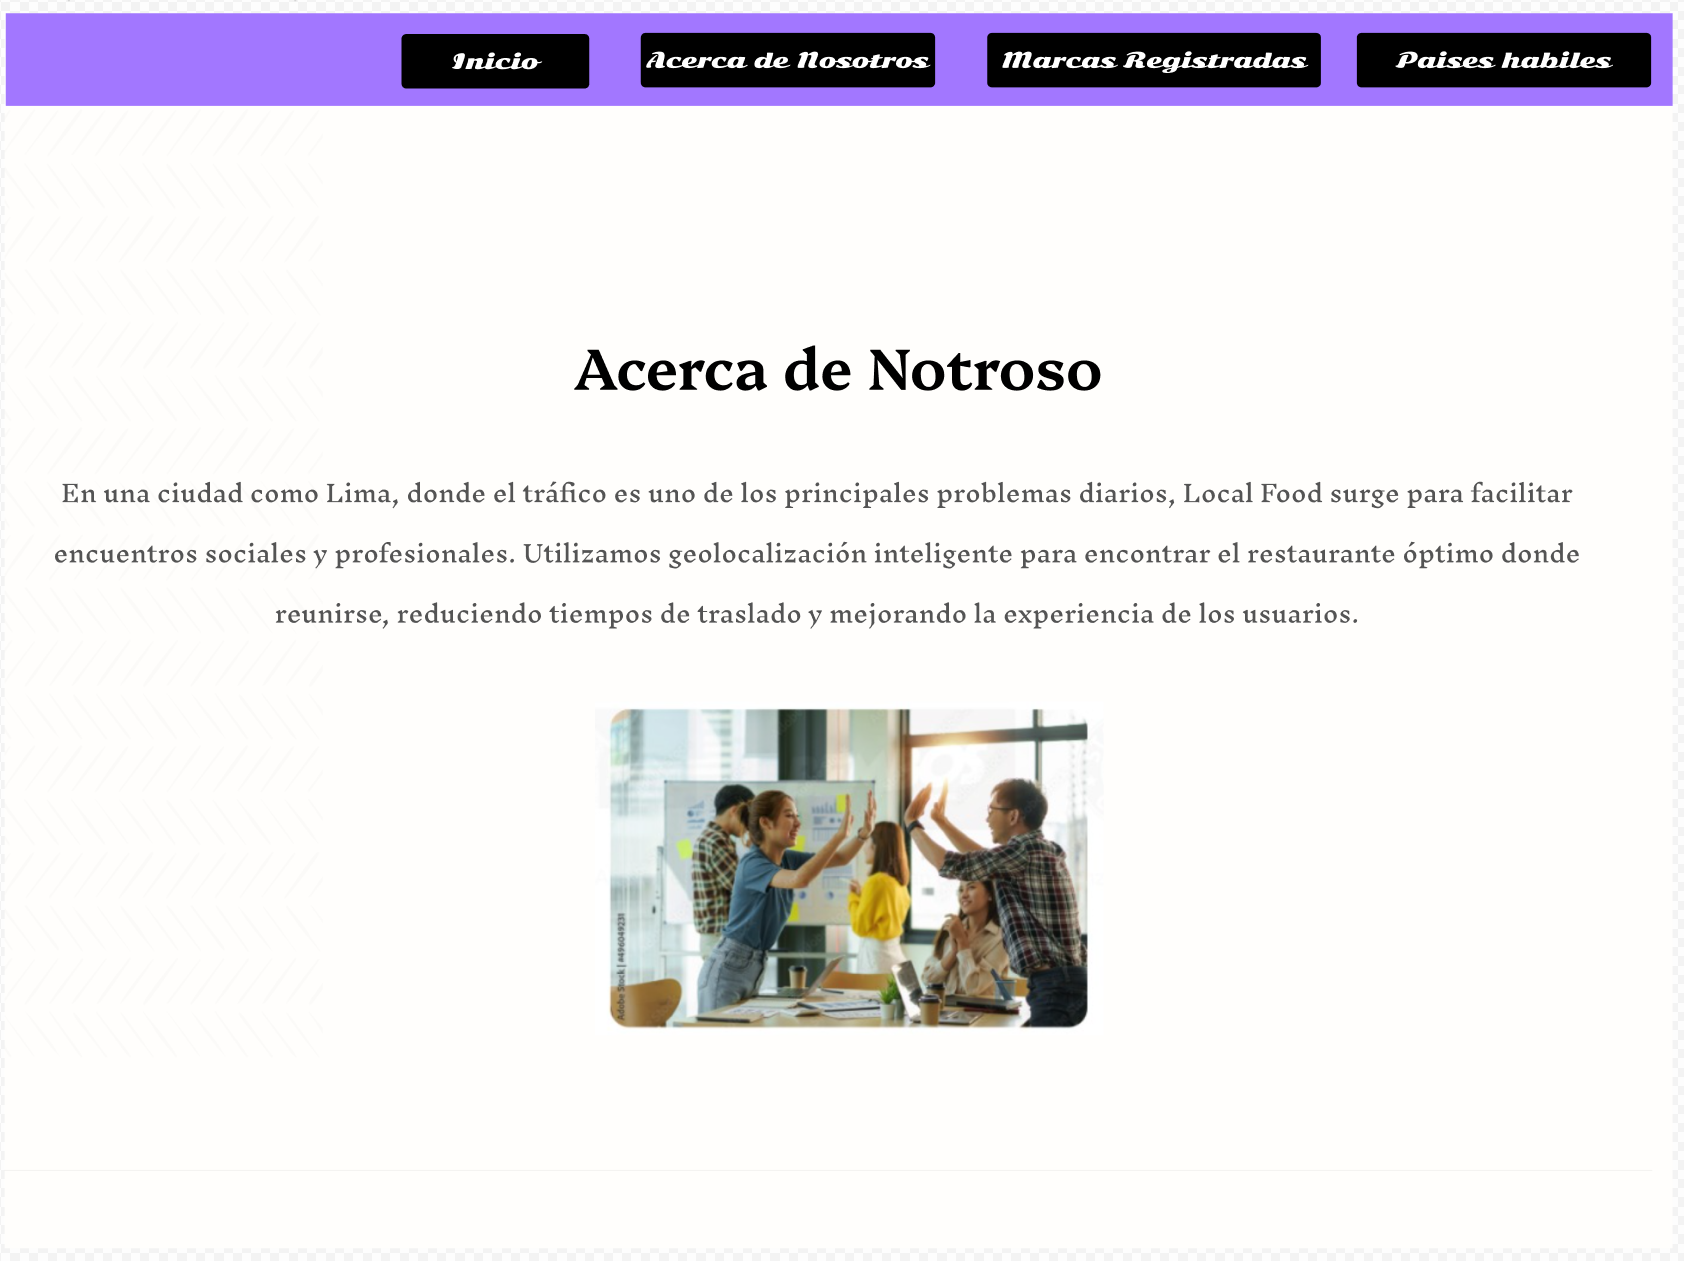
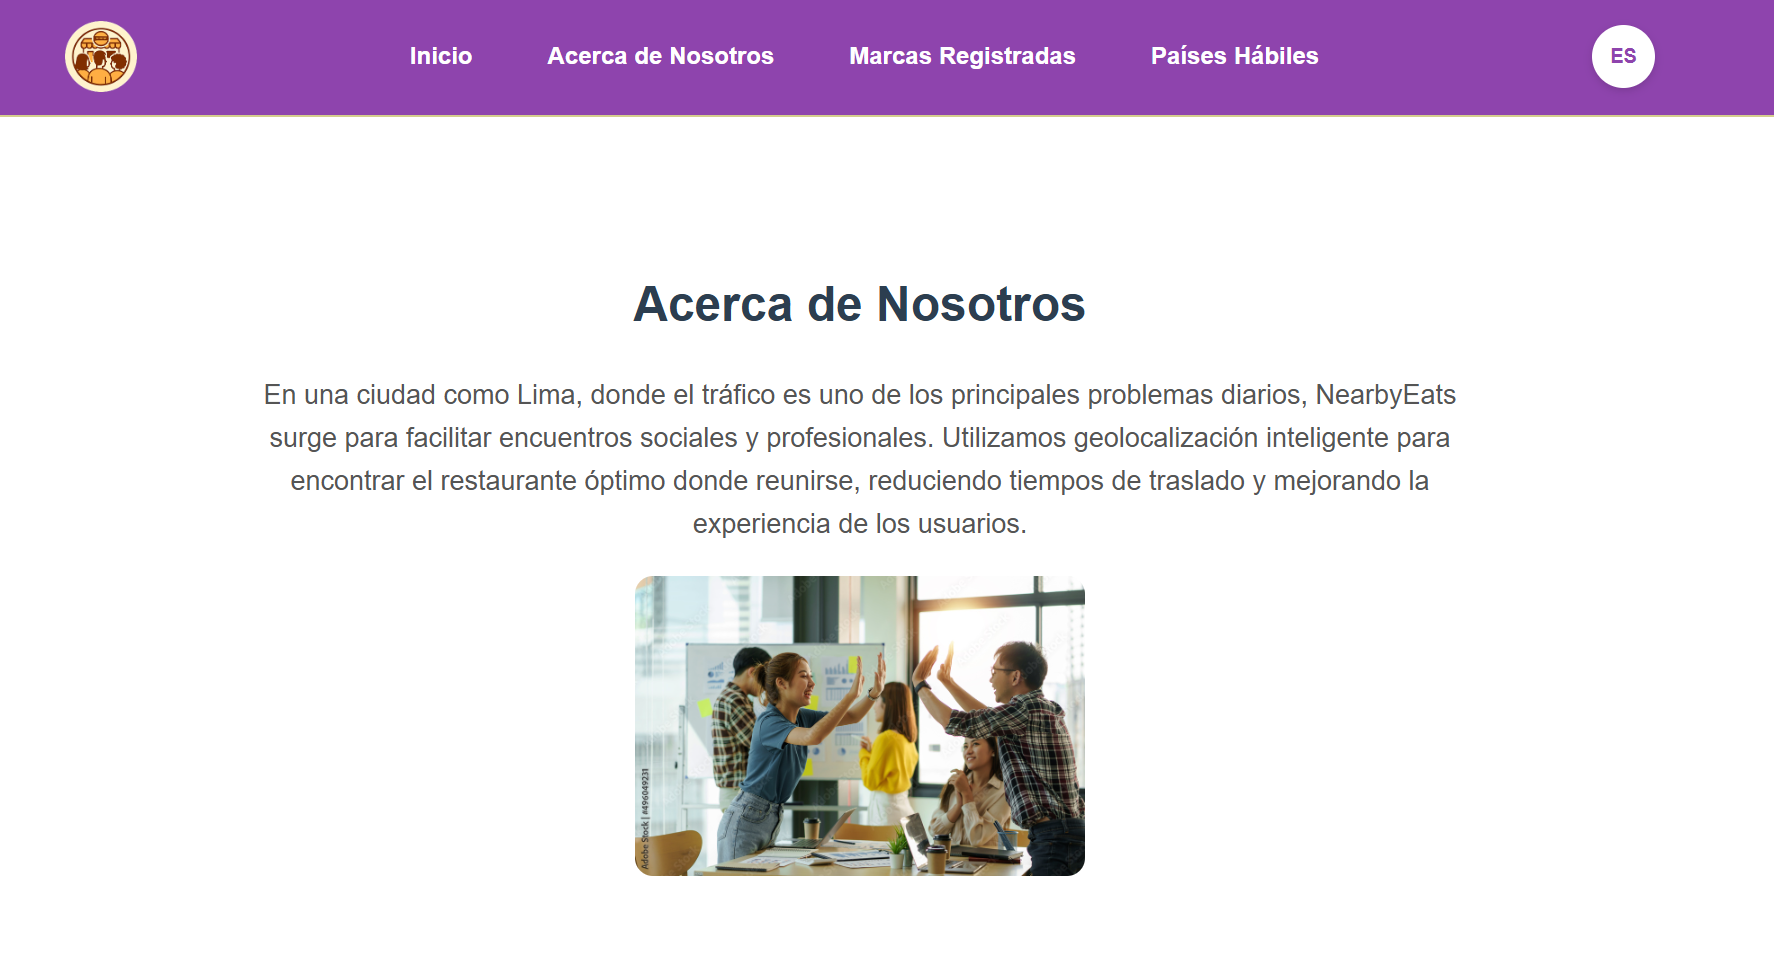
Doc: size and spelling correction

Changed region(s): [[0.0309, 0.3723, 0.9264, 0.9307], [0.0, 0.0, 1.0, 0.1241], [0.3397, 0.2792, 0.6485, 0.3413]]

diff --git a/report/chapter-3/chapter-3.md b/report/chapter-3/chapter-3.md
@@ -266,22 +266,13 @@ Permite a nuevos usuarios crear una cuenta para la aplicacion, y a usuarios exis
 
 <p align="center">
 
-![Wireframe1.png](../../assets/chapter-3/Wireframe/Wframe1.png)
+![Wireframe1.png](../../assets/chapter-3/Wireframe/Wframe1and2.png)
 </p>
 
 <p align="center">
-    Wireframe Sing In - Elaboración propia
+    Wireframe Sing In & User Register - Elaboración propia
 </p>
 
-
-<p align="center">
-
- ![Wireframe1.png](../../assets/chapter-3/Wireframe/Wframe2.png)
-</p>
-
-<p align="center">
-    Wireframe User Register - Elaboración propia
-</p>
 
 + **Pagina de inicio del usuario**:
 
@@ -289,21 +280,13 @@ Muestra el perfil del usuario, su codigo QR, y restaurante, el frecuente y el ul
 
 <p align="center">
 
-  ![Wireframe1.png](../../assets/chapter-3/Wireframe/Wframe3.png)
+  ![Wireframe1.png](../../assets/chapter-3/Wireframe/WframeInicio.png)
 </p>
 
 <p align="center">
-    Wireframe User Homepage - Elaboración propia
+    Wireframe User Homepage & User Menu - Elaboración propia
 </p>
 
-<p align="center">
-
-  ![Wireframe1.png](../../assets/chapter-3/Wireframe/Wframe4.png)
-</p>
-
-<p align="center">
-    Wireframe User Menu - Elaboración propia
-</p>
 
 + **Mis Contactos**:
 
@@ -311,29 +294,11 @@ Apartado que permite agregar, ver y seleccionar contactos para el calculo respec
 
 <p align="center">
 
-  ![Wireframe1.png](../../assets/chapter-3/Wireframe/Wframe5.png)
+  ![Wireframe1.png](../../assets/chapter-3/Wireframe/WframeContact.png)
 </p>
 
 <p align="center">
-    Wireframe User Add Contact - Elaboración propia
-</p>
-
-<p align="center">
-
-  ![Wireframe1.png](../../assets/chapter-3/Wireframe/Wframe6.png)
-</p>
-
-<p align="center">
-    Wireframe User Contactpage - Elaboración propia
-</p>
-
-<p align="center">
-  
-  ![Wireframe1.png](../../assets/chapter-3/Wireframe/Wframe7.png)
-</p>
-
-<p align="center">
-    Wireframe User selection Contact - Elaboración propia
+    Wireframe User Add Contact, User Contactpage & User selection Contact,  - Elaboración propia
 </p>
 
 
@@ -343,52 +308,27 @@ Muestras los restaurantes disponibles de la aplicacion al usuario y permite su s
 
 <p align="center">
 
-  ![Wireframe1.png](../../assets/chapter-3/Wireframe/Wframe8.png)
+  ![Wireframe1.png](../../assets/chapter-3/Wireframe/WframeRestaurant.png)
 </p>
 
 <p align="center">
-    Wireframe User Restaurantpage - Elaboración propia
+    Wireframe User Restaurantpage, User selection Restaurant - Elaboración propia
 </p>
 
 <p align="center">
 
-![Wireframe1.png](../../assets/chapter-3/Wireframe/Wframe9.png)
-</p>
 
-<p align="center">
-    Wireframe User selection Restaurant - Elaboración propia
-</p>
-
-+ **Realizar Calculo**:
++ **Realizar Cálculo**:
 
 Formula el calculo respecto al restaurante mas cercano en proporcion a la hubicacion de las personas del grupo.
 
 <p align="center">
 
-  <![Wireframe1.png](../../assets/chapter-3/Wireframe/Wframe10.png)
+  <![Wireframe1.png](../../assets/chapter-3/Wireframe/WframeCalculo.png)
 </p>
 
 <p align="center">
-
-  <![Wireframe1.png](../../assets/chapter-3/Wireframe/Wframe11.png)
-</p>
-
-<p align="center">
-    Wireframe User Calculationtpage - Elaboración propia
-</p>
-
-<p align="center">
-
-  <![Wireframe1.png](../../assets/chapter-3/Wireframe/Wframe10.png)
-</p>
-
-<p align="center">
-
-  <![Wireframe1.png](../../assets/chapter-3/Wireframe/Wframe12.png)
-</p>
-
-<p align="center">
-    Wireframe User Run Calculation - Elaboración propia
+    Wireframe User Calculationtpage & User Run Calculation - Elaboración propia
 </p>
 
 
@@ -401,7 +341,7 @@ https://miro.com/app/board/uXjVHTv6mYw=/
 
 **Wireflow 1: Login / Registrarse**
 
-**User Goal:** Como nuevo usuario, quiero ingresar o crear una cuenta, para acceder a la plataforma y ustilizar sus herramientas.
+**User Goal:** Como nuevo usuario, quiero ingresar o crear una cuenta, para acceder a la plataforma y utilizar sus herramientas.
 
 **User Persona:** Comensales
 
@@ -489,22 +429,13 @@ Permite a nuevos usuarios crear una cuenta para la aplicacion, y a usuarios exis
 
 <p align="center">
   
-   <![Mockup1.png](../../assets/chapter-3/Mockup/Mup1.png)
+   <![Mockup1.png](../../assets/chapter-3/Mockup/Mup1and2.png)
 </p>
 
 <p align="center">
-     Web Applications Mock-ups Login - Elaboración propia
+     Web Applications Mock-ups Login & User Register - Elaboración propia
 </p>
 
-
-<p align="center">
-  
-  <![Mockup1.png](../../assets/chapter-3/Mockup/Mup2.png)
-</p>
-
-<p align="center">
-    Web Applications Mock-ups User Register - Elaboración propia
-</p>
 
 + **Pagina de inicio del usuario**:
 
@@ -512,21 +443,13 @@ Muestra el perfil del usuario, su codigo QR, y restaurante, el frecuente y el ul
 
 <p align="center">
   
-  <![Mockup1.png](../../assets/chapter-3/Mockup/Mup3.png)
+  <![Mockup1.png](../../assets/chapter-3/Mockup/MupInicio.png)
 </p>
 
 <p align="center">
-    Web Applications Mock-ups User Homepage - Elaboración propia
+    Web Applications Mock-ups User Homepage & User Menu - Elaboración propia
 </p>
 
-<p align="center">
-  
-  <![Mockup1.png](../../assets/chapter-3/Mockup/Mup4.png)
-</p>
-
-<p align="center">
-    Web Applications Mock-ups User Menu - Elaboración propia
-</p>
 
 + **Mis Contactos**:
 
@@ -534,30 +457,13 @@ Apartado que permite agregar, ver y seleccionar contactos para el calculo respec
 
 <p align="center">
   
-   <![Mockup1.png](../../assets/chapter-3/Mockup/Mup5.png)
+   <![Mockup1.png](../../assets/chapter-3/Mockup/MupColegas.png)
 </p>
 
 <p align="center">
-    Web Applications Mock-ups User Add Contact - Elaboración propia
+    Web Applications Mock-ups User Add Contact, User Contactpage & User selection Contact - Elaboración propia
 </p>
 
-<p align="center">
-  
-   <![Mockup1.png](../../assets/chapter-3/Mockup/Mup6.png)
-</p>
-
-<p align="center">
-    Web Applications Mock-ups User Contactpage - Elaboración propia
-</p>
-
-<p align="center">
-
-   <![Mockup1.png](../../assets/chapter-3/Mockup/Mup7.png)
-</p>
-
-<p align="center">
-    Web Applications Mock-ups User selection Contact - Elaboración propia
-</p>
 
 
 + **Restaurantes disponibles**:
@@ -566,20 +472,11 @@ Muestras los restaurantes disponibles de la aplicacion al usuario y permite su s
 
 <p align="center">
   
-   <![Mockup1.png](../../assets/chapter-3/Mockup/Mup8.png)
+   <![Mockup1.png](../../assets/chapter-3/Mockup/MupRestaurant.png)
 </p>
 
 <p align="center">
-    Web Applications Mock-ups User Restaurantpage - Elaboración propia
-</p>
-
-<p align="center">
-  
-   <![Mockup1.png](../../assets/chapter-3/Mockup/Mup9.png)
-</p>
-
-<p align="center">
-    Web Applications Mock-ups User selection Restaurant - Elaboración propia
+    Web Applications Mock-ups User Restaurantpage & User selection Restaurant - Elaboración propia
 </p>
 
 + **Realizar Calculo**:
@@ -588,30 +485,11 @@ Formula el calculo respecto al restaurante mas cercano en proporcion a la hubica
 
 <p align="center">
   
-   <![Mockup1.png](../../assets/chapter-3/Mockup/Mup10.png)
+   <![Mockup1.png](../../assets/chapter-3/Mockup/MupCalcular.png)
 </p>
 
 <p align="center">
-  
-   <![Mockup1.png](../../assets/chapter-3/Mockup/Mup11.png)
-</p>
-
-<p align="center">
-    Web Applications Mock-ups User Calculationtpage - Elaboración propia
-</p>
-
-<p align="center">
-  
-   <![Mockup1.png](../../assets/chapter-3/Mockup/Mup12.png)
-</p>
-
-<p align="center">
-  
-   <![Mockup1.png](../../assets/chapter-3/Mockup/Mup13.png)
-</p>
-
-<p align="center">
-    Web Applications Mock-ups User Run Calculation - Elaboración propia
+    Web Applications Mock-ups User Calculationtpage & User Run Calculation - Elaboración propia
 </p>
 
 <br><br>